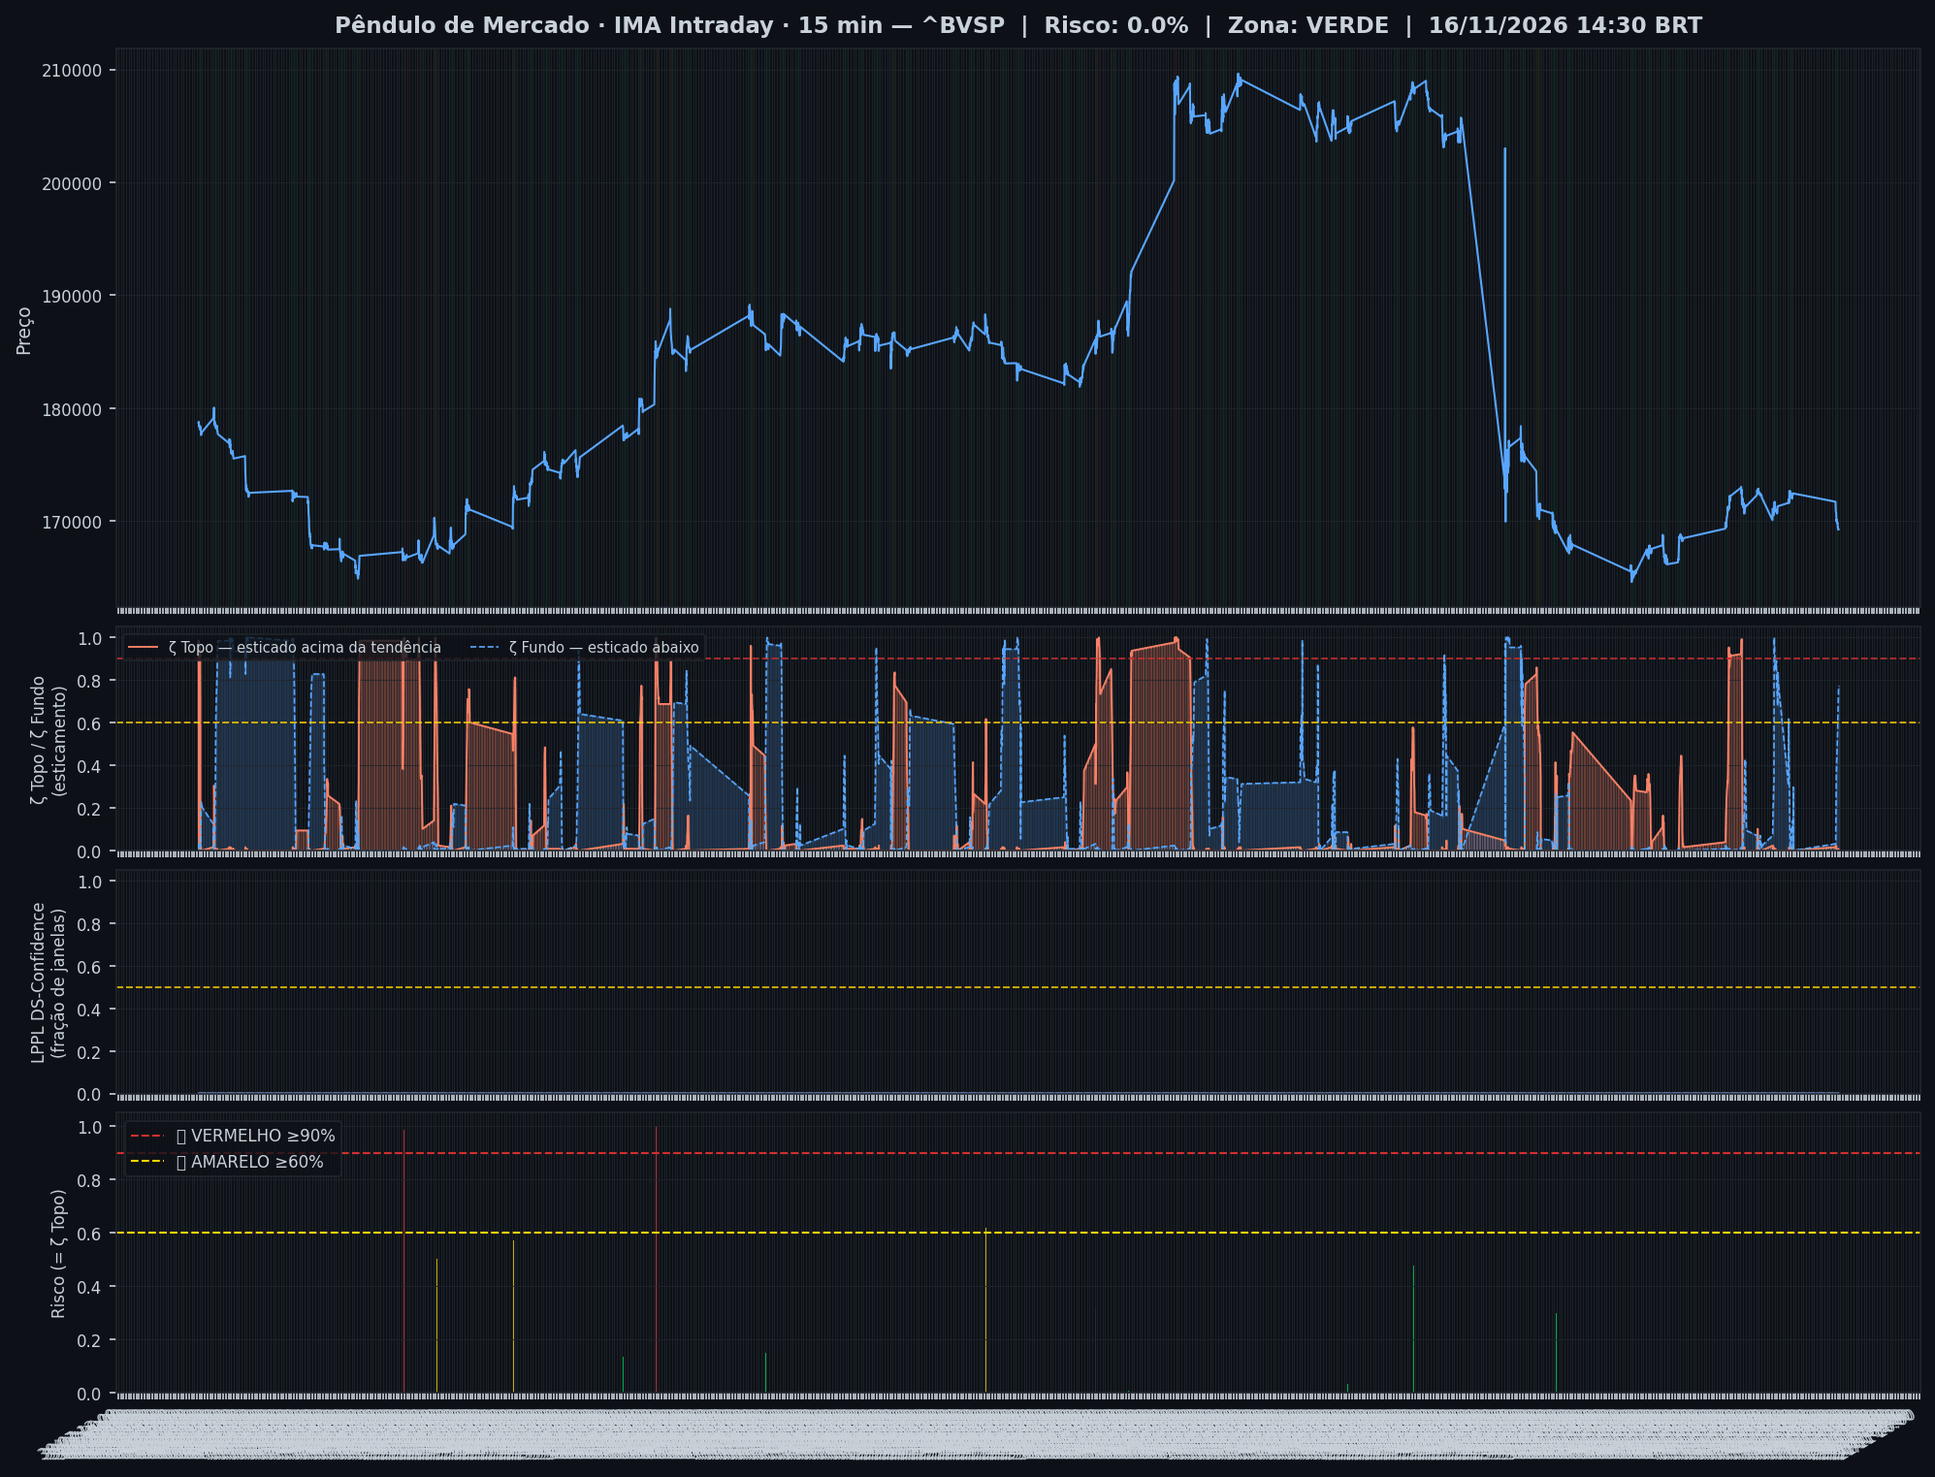
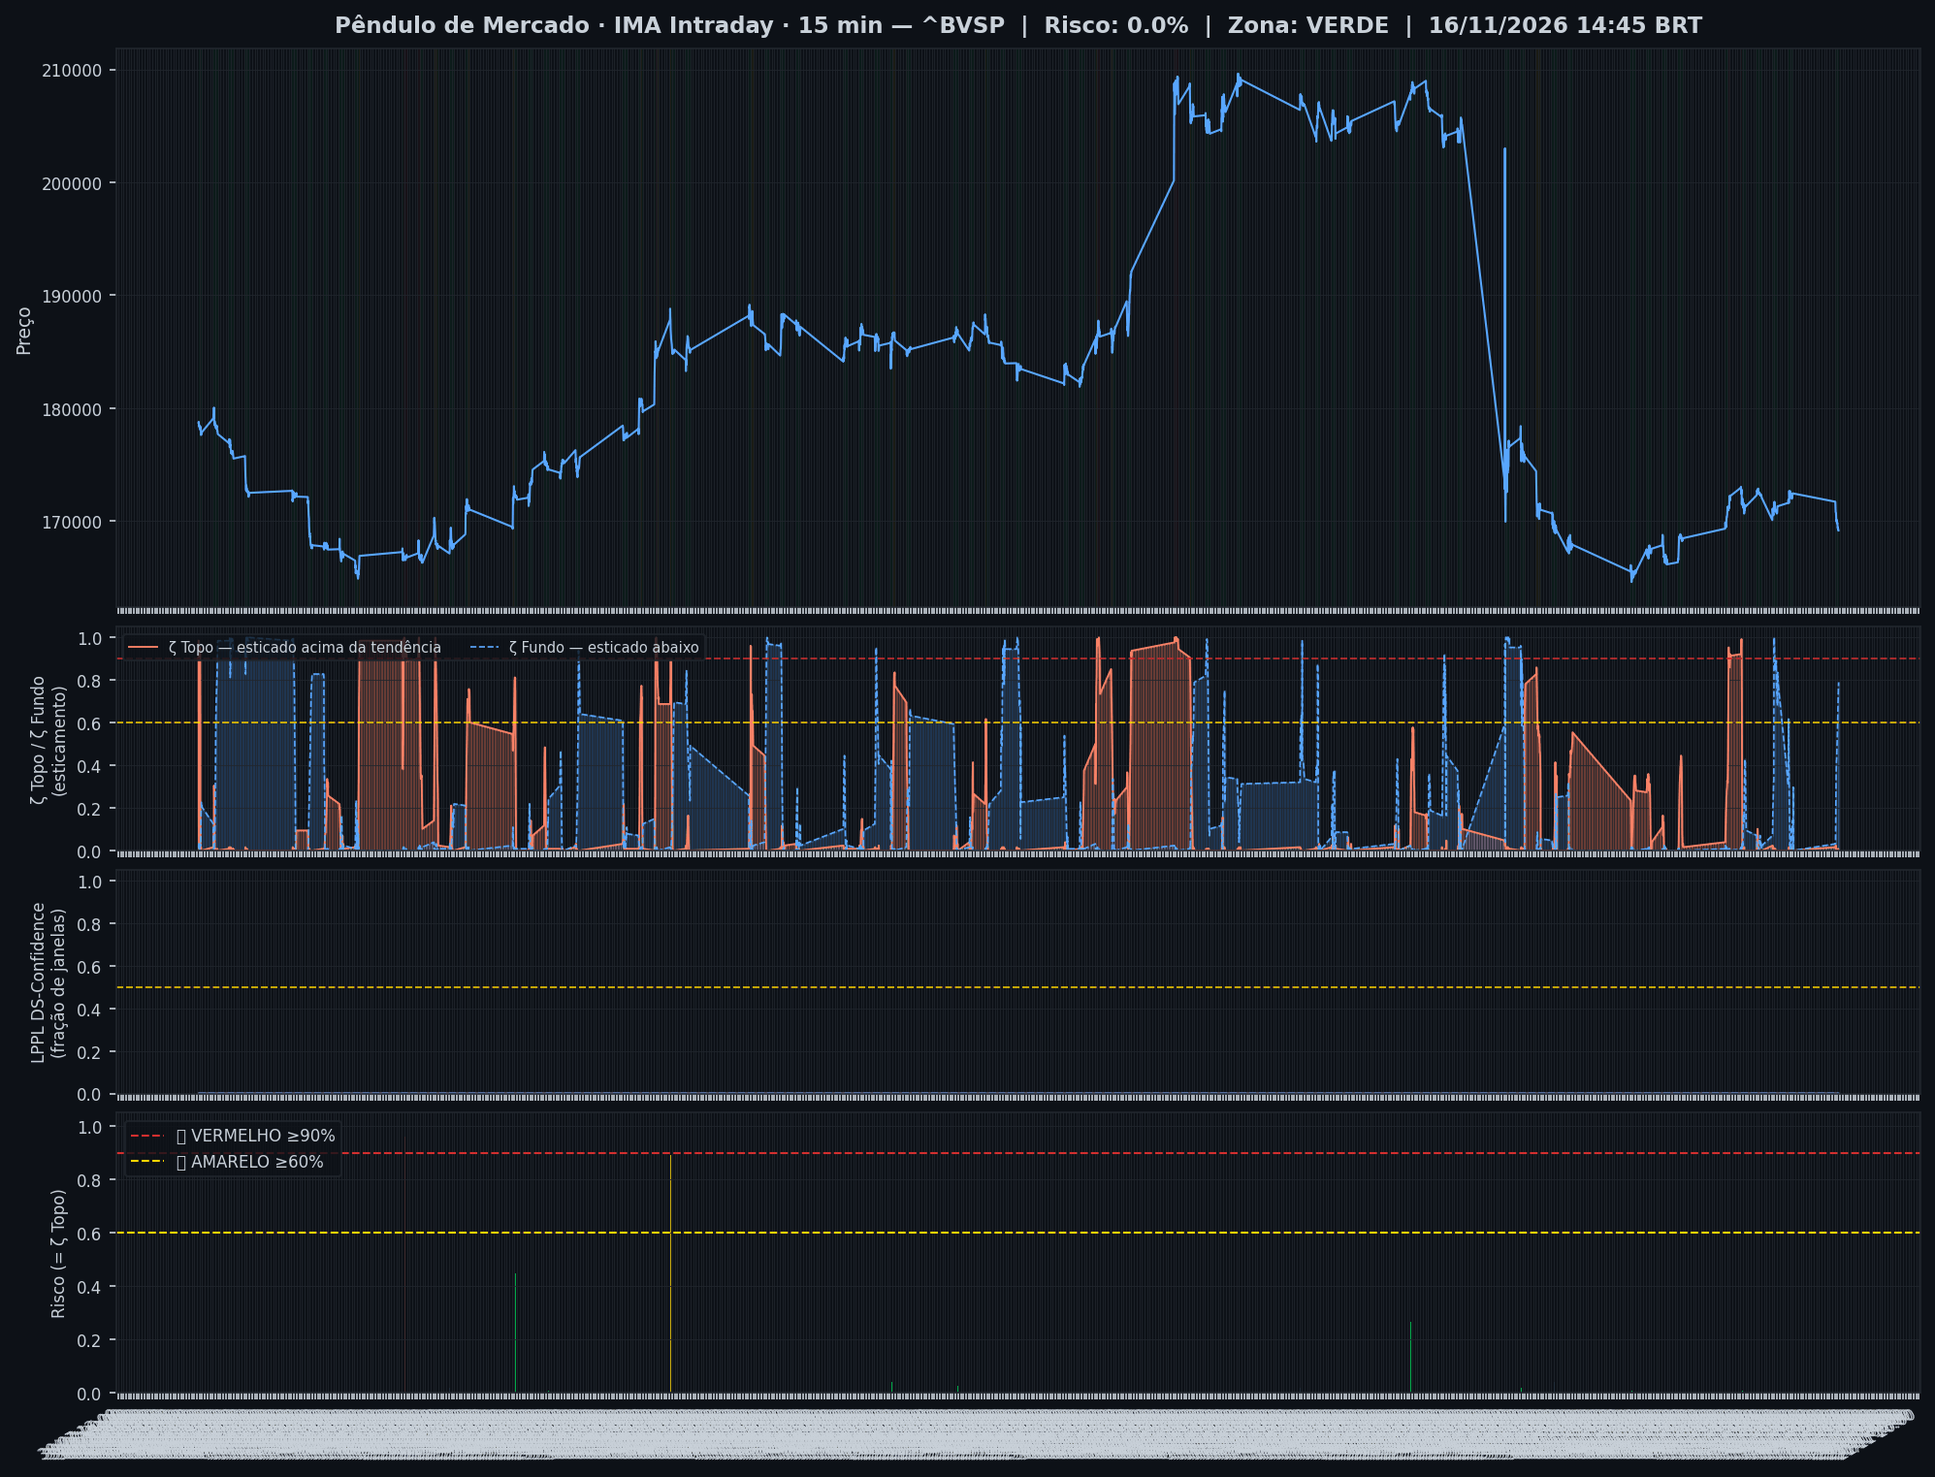
🤖 Auto: Sinal 16/11/2026 15:01

Changed region(s): [[0.7769, 0.4629, 0.8702, 0.5863]]

diff --git a/quartz.layout.ts b/quartz.layout.ts
@@ -55,7 +55,7 @@ const menuCelular = Component.Explorer({
   folderClickBehavior: "link",
   useSavedState: true,
   sortFn: (a, b) => {
-    const ordem = ["por-onde-comecar", "diario", "intraday", "amplitude", "larry-williams",
+    const ordem = ["por-onde-comecar", "avisos", "diario", "intraday", "amplitude", "larry-williams",
                    "tecnico", "calendario", "juros", "operacoes", "sinais-topo-fundo", "estrangeiros",
                    "adr", "ofertas", "posicionamento", "agro", "linha-do-tempo", "historico",
                    "historico-anterior", "metodologia", "ranking", "tendencia", "entradas",
@@ -81,13 +81,13 @@ const grupos = [
   grupo(
     "1 · Onde está o mercado",
     (node) => {
-      const dentro = ["por-onde-comecar", "diario", "intraday", "amplitude",
+      const dentro = ["por-onde-comecar", "avisos", "diario", "intraday", "amplitude",
                       "larry-williams", "tecnico", "calendario", "juros"]
       const s = node.slug ?? ""
       return dentro.some((d) => s === d || s.startsWith(d + "/"))
     },
     (a, b) => {
-      const ordem = ["por-onde-comecar", "diario", "intraday", "amplitude",
+      const ordem = ["por-onde-comecar", "avisos", "diario", "intraday", "amplitude",
                      "larry-williams", "tecnico", "calendario", "juros", "avanco-declinio"]
       const ia = ordem.indexOf(a.slugSegment)
       const ib = ordem.indexOf(b.slugSegment)

diff --git a/content/intraday/2026-11-16.md b/content/intraday/2026-11-16.md
@@ -1,10 +1,10 @@
 ---
-title: "🟢 Intraday 16/11/2026 14:30 BRT — VERDE"
+title: "🟢 Intraday 16/11/2026 14:45 BRT — VERDE"
 date: 2026-11-16
 tags: [intraday]
 ---
 
-> [!info] Onde o mercado está agora (16/11 14:30, candles de 15 min): **🔵 Esticado para baixo**
+> [!info] Onde o mercado está agora (16/11 14:45, candles de 15 min): **🔵 Esticado para baixo**
 > `Pânico ◀──●──────────────────▶ Euforia`
 >
 > O Ibovespa caiu mais rápido que o normal e está abaixo da sua faixa habitual.
@@ -20,26 +20,26 @@ tags: [intraday]
 > | 📍 **Sinais** | hoje: nenhum sinal | [abrir](sinais-topo-fundo/) |
 > | 🧪 **Placar ao vivo** | 1 operação(ões), 0 com lucro, soma -0,8% | [abrir](operacoes/) |
 
-> [!success] IMA Intraday · 15 min (16/11 14:30): 🟢 **VERDE** — Risco 0% · ＝ +0 p.p. vs leitura anterior
+> [!success] IMA Intraday · 15 min (16/11 14:45): 🟢 **VERDE** — Risco 0% · ＝ +0 p.p. vs leitura anterior
 > `░░░░░░░░░░░░░░░░░░░░`
 > Preço na faixa normal em torno da tendência.
 
 
-> [!warning] ⚠ Nível alto agora — IMA Intraday · 15 min (16/11 14:30)
-> - 🔵 **ζ Fundo 77%** — preço esticado abaixo da tendência
+> [!warning] ⚠ Nível alto agora — IMA Intraday · 15 min (16/11 14:45)
+> - 🔵 **ζ Fundo 79%** — preço esticado abaixo da tendência
 
 > [!note] 🧭 IMA Diário · viés (13/11): 🌱 **Fundo se desfazendo**
 > 📚 só contexto: o pânico passou; sem vantagem estatística confirmada para comprar só por isso
 >
 > *Leitura educacional baseada em 26 anos de dados, não recomendação. [Como usar](../metodologia/crise#3-como-usar-na-prática).*
 
-| Indicador — IMA Intraday · 15 min (16/11 14:30) | Valor |
+| Indicador — IMA Intraday · 15 min (16/11 14:45) | Valor |
 |---|---|
 | 🔴 ζ Topo — preço esticado acima da tendência | **0%** |
-| 🔵 ζ Fundo — preço esticado abaixo da tendência | 🔵 **77%** |
+| 🔵 ζ Fundo — preço esticado abaixo da tendência | 🔵 **79%** |
 | 🫧 LPPL bolha — alta super-exponencial (risco de crash) | 0% |
 | 🫧 LPPL antibolha — queda super-exponencial (risco de repique) | 0% |
-| 📊 Ibovespa | 169.282 pts |
+| 📊 Ibovespa | 169.177 pts |
 
 ![Gráfico do sinal](../graficos/sinal_intraday.png)
 
@@ -47,6 +47,7 @@ tags: [intraday]
 
 | Data | Zona | Evento | Risco | ζ Topo | ζ Fundo | LPPL |
 |---|---|---|---|---|---|---|
+| 2026-11-16 14:45 | 🟢 VERDE |  | **0%** | 0% | 🔵 **79%** | 0% |
 | 2026-11-16 14:30 | 🟢 VERDE |  | **0%** | 0% | 🔵 **77%** | 0% |
 | 2026-11-16 14:15 | 🟢 VERDE |  | **0%** | 0% | 🔵 **74%** | 0% |
 | 2026-11-16 14:00 | 🟢 VERDE |  | **1%** | 1% | 🔵 **70%** | 0% |
@@ -76,7 +77,6 @@ tags: [intraday]
 | 2026-11-13 16:15 | 🟢 VERDE |  | **1%** | 1% | 12% | 0% |
 | 2026-11-13 16:00 | 🟢 VERDE |  | **2%** | 2% | 11% | 0% |
 | 2026-11-13 15:45 | 🟢 VERDE |  | **1%** | 1% | 10% | 0% |
-| 2026-11-13 15:30 | 🟢 VERDE |  | **0%** | 0% | 9% | 0% |
 
 <small>Destaques: 🟡 ≥ 60% · 🔴 ≥ 90% (Risco e ζ Topo) · 🔵 ≥ 60% · 🔪 ≥ 90% (ζ Fundo) · 🫧 ≥ 30% · 🫧🔴 ≥ 50% (LPPL)</small>
 
@@ -85,41 +85,41 @@ tags: [intraday]
 **4% dos ativos em tensão** (1🔴 0🟡) · **7 com ζ Fundo alto** — quanto mais ativos disparam juntos, mais confiável o sinal.
 
 > [!danger] Em destaque no multi-ativo
-> 🔴 **USD/BRL** ζ Topo 99% · 🔪 **ITAUSA** ζ Fundo 98% · 🔵 **ITAUUNIBANCO** ζ Fundo 78% · 🔵 **BRADESCO** ζ Fundo 77% · 🔵 **EMBRAER** ζ Fundo 69% · 🔵 **AXIA ENERGIA** ζ Fundo 68% · 🔵 **VALE** ζ Fundo 66% · 🔵 **ULTRAPAR** ζ Fundo 65%
+> 🔴 **USD/BRL** ζ Topo 99% · 🔪 **ITAUSA** ζ Fundo 98% · 🔵 **ITAUUNIBANCO** ζ Fundo 80% · 🔵 **BRADESCO** ζ Fundo 75% · 🔵 **EMBRAER** ζ Fundo 70% · 🔵 **AXIA ENERGIA** ζ Fundo 68% · 🔵 **VALE** ζ Fundo 66% · 🔵 **ULTRAPAR** ζ Fundo 64%
 
 | Zona | Ativo | Setor | ζ Topo | ζ Fundo |
 |---|---|---|---|---|
 | 🔴 | **USD/BRL** | Câmbio | 🔴 **99.2%** | 0.0% |
 | 🟢 | **ITAUSA** | Financeiro | 0.0% | 🔪 **98.4%** |
-| 🟢 | **ITAUUNIBANCO** | Financeiro | 0.0% | 🔵 **78.1%** |
-| 🟢 | **BRADESCO** | Financeiro | 0.0% | 🔵 **76.6%** |
-| 🟢 | **EMBRAER** | Outros | 0.8% | 🔵 **68.8%** |
+| 🟢 | **ITAUUNIBANCO** | Financeiro | 0.0% | 🔵 **79.7%** |
+| 🟢 | **BRADESCO** | Financeiro | 0.0% | 🔵 **75.0%** |
+| 🟢 | **EMBRAER** | Outros | 0.0% | 🔵 **69.5%** |
 | 🟢 | **AXIA ENERGIA** | Energia | 0.0% | 🔵 **68.0%** |
-| 🟢 | **VALE** | Mineração | 0.0% | 🔵 **65.6%** |
-| 🟢 | **ULTRAPAR** | Outros | 0.0% | 🔵 **64.8%** |
-| 🟢 | **COPEL** | Energia | 0.8% | 53.9% |
-| 🟢 | **PETROBRAS** | Petróleo | 0.0% | 52.3% |
-| 🟢 | **PETROBRAS** | Petróleo | 0.0% | 48.4% |
-| 🟢 | **WEG** | Industrial | 0.0% | 46.9% |
-| 🟢 | **GERDAU** | Siderurgia | 0.0% | 32.0% |
-| 🟢 | **BRASIL** | Financeiro | 18.8% | 0.0% |
-| 🟢 | **ENEVA** | Energia | 0.0% | 16.4% |
-| 🟢 | **REDE D OR** | Saúde | 0.0% | 16.4% |
-| 🟢 | **LOCALIZA** | Aluguel | 0.0% | 15.6% |
-| 🟢 | **AMBEV S/A** | Consumo | 0.0% | 11.7% |
-| 🟢 | **SABESP** | Saneamento | 0.0% | 7.8% |
-| 🟢 | **BTGP BANCO** | Financeiro | 0.0% | 5.5% |
+| 🟢 | **VALE** | Mineração | 0.0% | 🔵 **66.4%** |
+| 🟢 | **ULTRAPAR** | Outros | 0.8% | 🔵 **64.1%** |
+| 🟢 | **COPEL** | Energia | 0.0% | 57.0% |
+| 🟢 | **PETROBRAS** | Petróleo | 0.0% | 54.7% |
+| 🟢 | **WEG** | Industrial | 0.0% | 51.6% |
+| 🟢 | **PETROBRAS** | Petróleo | 0.0% | 50.8% |
+| 🟢 | **GERDAU** | Siderurgia | 0.0% | 26.6% |
+| 🟢 | **REDE D OR** | Saúde | 0.0% | 21.1% |
+| 🟢 | **BRASIL** | Financeiro | 18.0% | 0.0% |
+| 🟢 | **AMBEV S/A** | Consumo | 0.0% | 14.1% |
+| 🟢 | **ENEVA** | Energia | 0.0% | 10.9% |
+| 🟢 | **LOCALIZA** | Aluguel | 0.0% | 9.4% |
+| 🟢 | **SABESP** | Saneamento | 0.0% | 6.2% |
 | 🟢 | **EQUATORIAL** | Energia | 0.0% | 4.7% |
-| 🟢 | **PRIO** | Petróleo | 0.0% | 2.3% |
-| 🟢 | **VIBRA** | Energia | 0.8% | 2.3% |
+| 🟢 | **BTGP BANCO** | Financeiro | 0.0% | 2.3% |
+| 🟢 | **PRIO** | Petróleo | 0.0% | 1.6% |
 | 🟢 | **B3** | Financeiro | 0.8% | 0.8% |
-| 🟢 | **SUZANO S.A.** | Papel/Celulose | 0.0% | 0.0% |
+| 🟢 | **VIBRA** | Energia | 0.8% | 0.8% |
+| 🟢 | **SUZANO S.A.** | Papel/Celulose | 0.8% | 0.0% |
 
 <small>Destaques: 🟡 ≥ 60% · 🔴 ≥ 90% (Risco e ζ Topo) · 🔵 ≥ 60% · 🔪 ≥ 90% (ζ Fundo) · 🫧 ≥ 30% · 🫧🔴 ≥ 50% (LPPL)</small>
 
 ![Monitor multi-ativo](../graficos/multi_intraday.png)
 
-*Página atualizada em 16/11/2026 14:46 BRT (leitura da barra de 2026-11-16 14:30 BRT).*
+*Página atualizada em 16/11/2026 15:01 BRT (leitura da barra de 2026-11-16 14:45 BRT).*
 
 > [!warning] O que este indicador não faz
 > Medido em 5 anos de Ibovespa, o ζ **não antecipa** topos nem fundos: a capacidade de separar o que sobe do que cai ficou em 0,49–0,52, e 0,50 é moeda jogada ao ar. Ele descreve o estado de agora; não é aviso do que vem. As zonas verde/amarelo/vermelho continuam na página como descrição desse estado — **não as use como sinal de entrada ou saída**.

diff --git a/content/index.md b/content/index.md
@@ -6,9 +6,9 @@ tags: [home]
 
 **As ondas do mercado, explicadas.** Leitura do Ibovespa com estatística de 26 anos, baseada no trabalho de pesquisadores e traders reconhecidos e adaptada por Jarbas Daniel da Costa.
 
-*Última atualização: 16/11/2026 14:46 BRT · Intraday 15min*
+*Última atualização: 16/11/2026 15:01 BRT · Intraday 15min*
 
-> [!info] Onde o mercado está agora (16/11 14:30, candles de 15 min): **🔵 Esticado para baixo**
+> [!info] Onde o mercado está agora (16/11 14:45, candles de 15 min): **🔵 Esticado para baixo**
 > `Pânico ◀──●──────────────────▶ Euforia`
 >
 > O Ibovespa caiu mais rápido que o normal e está abaixo da sua faixa habitual.
@@ -16,8 +16,8 @@ tags: [home]
 >
 > *Leitura educacional baseada em 26 anos de dados. Não é recomendação de investimento.*
 
-> [!warning] ⚠ Nível alto agora — IMA Intraday · 15 min (16/11 14:30)
-> - 🔵 **ζ Fundo 77%** — preço esticado abaixo da tendência
+> [!warning] ⚠ Nível alto agora — IMA Intraday · 15 min (16/11 14:45)
+> - 🔵 **ζ Fundo 79%** — preço esticado abaixo da tendência
 
 ## Agora
 
@@ -52,18 +52,18 @@ tags: [home]
 > *Leitura educacional baseada em 26 anos de dados, não recomendação. [Como usar](metodologia/crise#3-como-usar-na-prática).*
 
 > [!info]- 🌊 Detalhes do Sinal IMA (indicadores e últimos 7 pregões)
-> > [!success] IMA Intraday · 15 min (16/11 14:30): 🟢 **VERDE** — Risco 0% · ＝ +0 p.p. vs leitura anterior
+> > [!success] IMA Intraday · 15 min (16/11 14:45): 🟢 **VERDE** — Risco 0% · ＝ +0 p.p. vs leitura anterior
 > > `░░░░░░░░░░░░░░░░░░░░`
 > > Preço na faixa normal em torno da tendência.
 >
 >
-> | Indicador — IMA Intraday · 15 min (16/11 14:30) | Valor |
+> | Indicador — IMA Intraday · 15 min (16/11 14:45) | Valor |
 > |---|---|
 > | 🔴 ζ Topo — preço esticado acima da tendência | **0%** |
-> | 🔵 ζ Fundo — preço esticado abaixo da tendência | 🔵 **77%** |
+> | 🔵 ζ Fundo — preço esticado abaixo da tendência | 🔵 **79%** |
 > | 🫧 LPPL bolha — alta super-exponencial (risco de crash) | 0% |
 > | 🫧 LPPL antibolha — queda super-exponencial (risco de repique) | 0% |
-> | 📊 Ibovespa | 169.282 pts |
+> | 📊 Ibovespa | 169.177 pts |
 >
 > **Multi-ativo:** 4% em tensão (1🔴 0🟡 de 25 ativos)
 >
@@ -71,7 +71,7 @@ tags: [home]
 >
 > | Data | Zona | Risco | ζ Topo | ζ Fundo | LPPL |
 > |---|---|---|---|---|---|
-> | [16/11/2026](intraday/2026-11-16) | 🟢 VERDE | **0%** | 0% | 🔵 **77%** | 0% |
+> | [16/11/2026](intraday/2026-11-16) | 🟢 VERDE | **0%** | 0% | 🔵 **79%** | 0% |
 > | [13/11/2026](intraday/2026-11-13) | 🟢 VERDE | **0%** | 0% | 0% | 0% |
 >
 > <small>Destaques: 🟡 ≥ 60% · 🔴 ≥ 90% (Risco e ζ Topo) · 🔵 ≥ 60% · 🔪 ≥ 90% (ζ Fundo) · 🫧 ≥ 30% · 🫧🔴 ≥ 50% (LPPL)</small>

diff --git a/content/operacoes/entradas.md b/content/operacoes/entradas.md
@@ -31,7 +31,7 @@ description: "Compra depois de um sinal de fundo: Nadaraya no diário, semáforo
 > | Diário · Semáforo N3 após ζ Fundo | 07/07/26 a 172.021 | 10/08/26 a 172.021 | **+0,0%** | stop no preço de entrada |
 > | H4 · Semáforo N2 | 12/06/26 14h a 171.134 | 15/06/26 14h a 171.134 | **+0,0%** | stop no preço de entrada |
 >
-> <small>Atualizado 13/11 19:00 · checado no pregão às 14:45. Nota: ✅ passou no teste fora da amostra (walk-forward 2008–2026) · 🧪 em teste (H4, com aviso no Telegram) ou em observação (ζ, sem aviso) · 🧪 na tabela = operação do teste ao vivo.</small>
+> <small>Atualizado 13/11 19:00 · checado no pregão às 15:00. Nota: ✅ passou no teste fora da amostra (walk-forward 2008–2026) · 🧪 em teste (H4, com aviso no Telegram) ou em observação (ζ, sem aviso) · 🧪 na tabela = operação do teste ao vivo.</small>
 >
 > *Regras: depois de um sinal de fundo, o Diário entra quando o Nadaraya vira para cima; o Semanal e o H4 entram quando um fundo do semáforo fica fixo. Stop e saída de cada regra na [metodologia](metodologia/regras-de-operacao#entradas-do-método). Nenhuma regra de venda passou no teste. Os números do histórico têm viés de escolha (overfitting); o placar ao vivo é o que vale. Leitura educacional do método, não recomendação.*
 

diff --git a/content/historico.md b/content/historico.md
@@ -5,7 +5,7 @@ tags: [historico]
 
 # 📜 Histórico de leituras (v5)
 
-**2.399 leituras** desde 2026-07-03. Na página ficam os últimos 3 dias leitura por leitura e o resumo de cada dia anterior; o registro inteiro está no arquivo para baixar.
+**2.400 leituras** desde 2026-07-03. Na página ficam os últimos 3 dias leitura por leitura e o resumo de cada dia anterior; o registro inteiro está no arquivo para baixar.
 
 [**Baixar o histórico completo**](historico-completo.csv) (105 KB · abre no Excel e no LibreOffice)
 
@@ -16,6 +16,7 @@ tags: [historico]
 
 | Data | Modo | Zona | Risco | IMA | LPPL |
 |---|---|---|---|---|---|
+| 2026-11-16 14:45 | intraday | 🟢 VERDE | 0% | 0% | 0% |
 | 2026-11-16 14:30 | intraday | 🟢 VERDE | 0% | 0% | 0% |
 | 2026-11-16 14:15 | intraday | 🟢 VERDE | 0% | 0% | 0% |
 | 2026-11-16 14:00 | intraday | 🟢 VERDE | 1% | 1% | 0% |

diff --git a/content/por-onde-comecar.md b/content/por-onde-comecar.md
@@ -12,6 +12,12 @@ Saber qual pergunta você está fazendo resolve metade do problema. Este é o ma
 > resto desta página é para quando você quiser entender **o que cada medida mede** — e, mais
 > importante, o que ela não mede.
 
+> [!warning] Os pontos de atenção
+> Boa parte dos números daqui tem uma condição que muda a leitura: a base de cálculo, o prazo a
+> que o número se refere, o pregão ainda em andamento, a fonte que trocou. Cada página carrega os
+> seus no alto, recolhidos num bloco, e todos estão reunidos em [Avisos](/avisos/). Se você vai
+> operar com um número deste site, o aviso da página é a primeira coisa a ler.
+
 ## 1 · Onde está o mercado
 
 **A pergunta:** o mercado está esticado, calmo ou em pânico? A alta tem quantas ações

diff --git a/content/operacoes/ranking.md b/content/operacoes/ranking.md
@@ -5,7 +5,7 @@ tags: [operacoes]
 description: "As regras de compra do site ordenadas pelo resultado, com treino, teste e placar ao vivo"
 ---
 
-*Atualizado 16/11/2026 14:46 · histórico simulado com as regras congeladas em 23/10/2026 + placar ao vivo.*
+*Atualizado 16/11/2026 15:01 · histórico simulado com as regras congeladas em 23/10/2026 + placar ao vivo.*
 
 As regras de compra do site, **da que mais rendeu para a que menos rendeu**. O resultado é por operação, no índice à vista, sem custos e sem juros compostos (a soma é só a soma das operações). **Treino** = entradas de 2001 a 2013 e **teste** = 2014 em diante: uma regra só é confiável se ganhou nos dois. O único resultado sem nenhum ajuste ao histórico é o **placar ao vivo**.
 

diff --git a/content/linha-do-tempo/index.md b/content/linha-do-tempo/index.md
@@ -5,7 +5,7 @@ description: "Todo sinal, ordem, stop e aviso do Pêndulo de Mercado, do mais re
 tags: [eventos]
 ---
 
-*Atualizada 16/11/2026 14:46 BRT · a cada 15 min no pregão e às 19h.*
+*Atualizada 16/11/2026 15:01 BRT · a cada 15 min no pregão e às 19h.*
 
 Tudo o que o sistema fez ou detectou, **do mais recente para o mais antigo**: sinais de topo e fundo, ordens de compra e de venda armadas, compras, vendas, stops, avisos de 🚨 preço perto do nível e mudanças do Sinal IMA. Os **últimos 7 dias** ficam abertos; o resto, por **ano → mês → dia**.
 

diff --git a/content/avisos/index.md b/content/avisos/index.md
@@ -2,7 +2,7 @@
 title: "⚠ Avisos: o que saber antes de usar os números"
 ---
 
-*Gerado em 16/11/2026 14:43*
+*Gerado em 16/11/2026 15:01*
 
 Este site publica muitos números, e cada um tem uma limitação que importa na hora de
 decidir. As limitações estão escritas nas próprias páginas, mas quem chega direto numa
